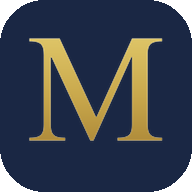
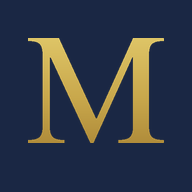
Add files via upload

diff --git a/index.html b/index.html
@@ -109,9 +109,9 @@ html,body{min-height:100vh;background:var(--navy2);font-family:'Georgia','Times 
       <div class="c-text"><div class="c-label">LINE</div><div class="c-value">anishen</div></div>
       <span class="c-arrow">›</span>
     </a>
-    <a class="contact-row" href="https://wa.me/[phone redacted]">
+    <a class="contact-row" href="https://wa.me/[phone redacted]">
[1 lines of base64/hex data omitted]
-      <div class="c-text"><div class="c-label">WhatsApp</div><div class="c-value">[phone redacted]</div></div>
+      <div class="c-text"><div class="c-label">WhatsApp</div><div class="c-value">[phone redacted]</div></div>
       <span class="c-arrow">›</span>
     </a>
     <a class="contact-row" href="viber://chat?number=%2B639564307434">